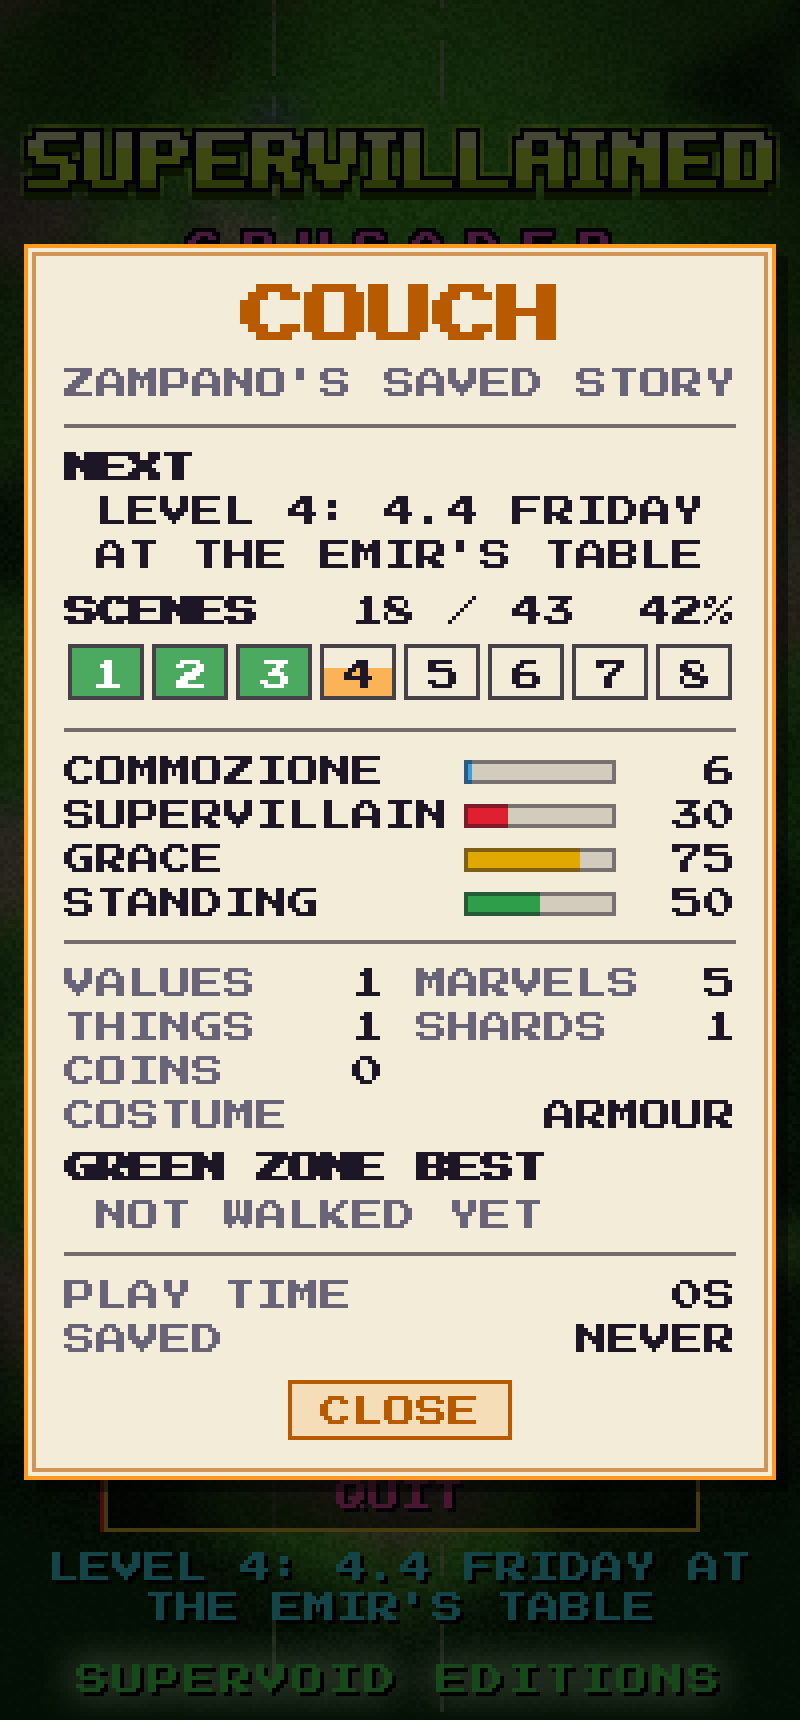
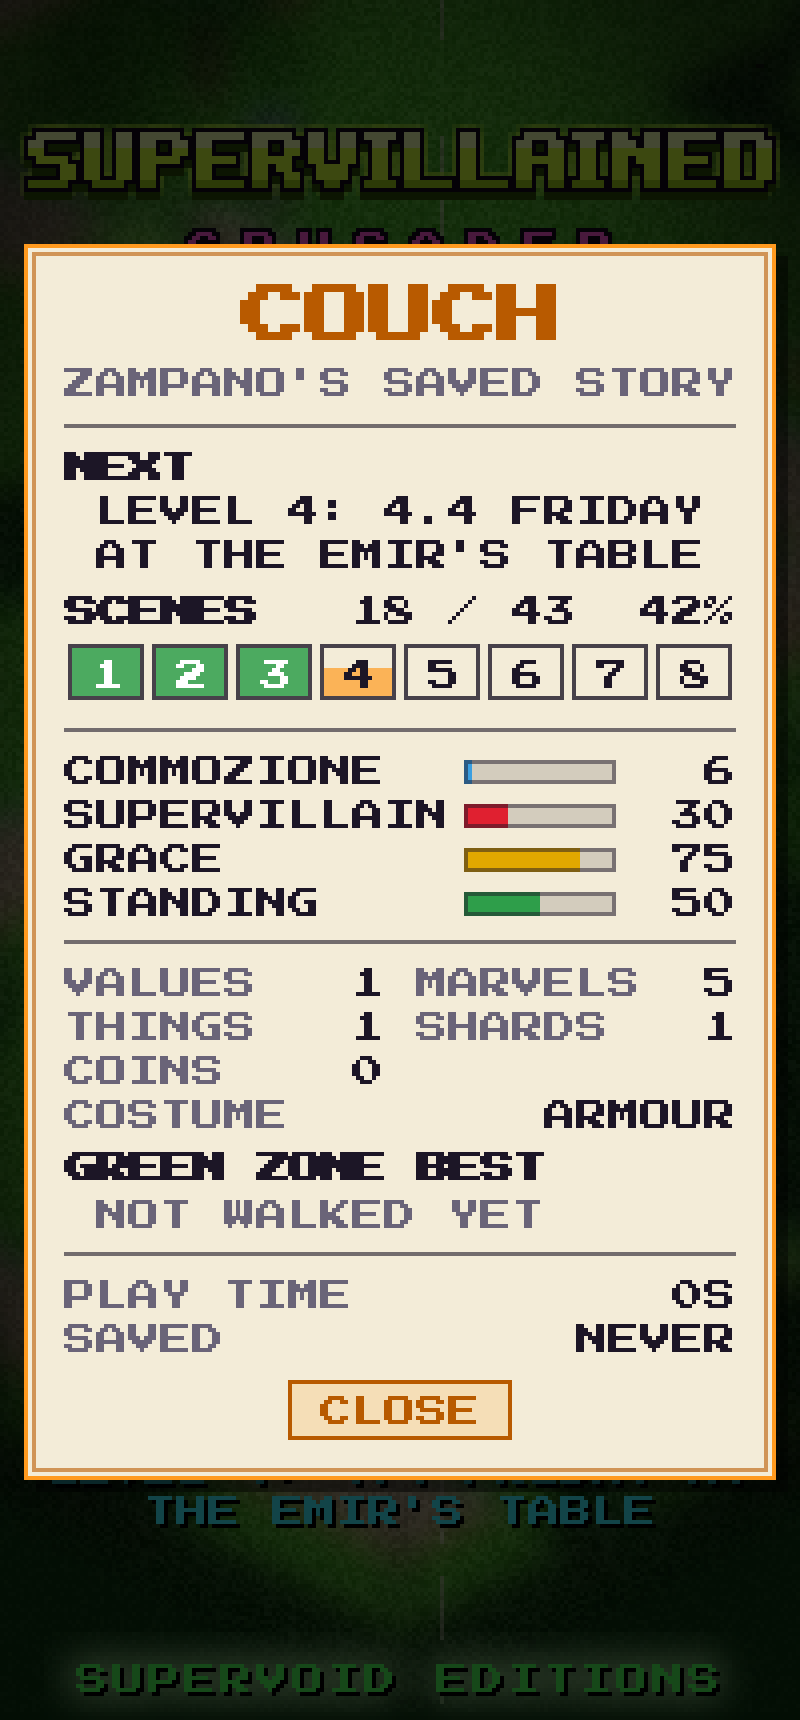
Title page: buttons one button's space higher, the portrait half that
More room above SUPERVOID EDITIONS: TITLE.BOTTOM_GAP grows by a
button's space (18 + 6 px); the portrait, centered between the title
and the buttons, rises by half of it.

Claude-Session: https://claude.ai/code/session_01M83brc3uYNtkMe9oqkk4LQ

Changed region(s): [[0.0625, 0.8628, 0.8125, 0.9552], [0.8438, 0.8628, 0.9375, 0.9244]]

diff --git a/src/config.ts b/src/config.ts
@@ -86,8 +86,12 @@ export const TITLE = {
   DOG_ASPECT: 1.4,
   /** The title (SUPERVILLAINED CRUSADER): its top at this fraction of the screen height. */
   TOP: 0.07,
-  /** Space between the buttons (or where CONTINUE goes) and the publisher line, px. */
-  BOTTOM_GAP: 8,
+  /**
+   * Space between the buttons (or where CONTINUE goes) and the publisher line, px: 8 plus one
+   * button's space (18 + 6). The portrait stays centered between title and buttons, so it rises
+   * half as much.
+   */
+  BOTTOM_GAP: 32,
   /** Glitch on the title's lettering: a burst every [min, max] s, lasting [min, max] s. */
   TEXT_GLITCH_EVERY: [1.8, 4.5],
   TEXT_GLITCH_TIME: [0.06, 0.2],

diff --git a/DECISIONS.md b/DECISIONS.md
@@ -502,8 +502,8 @@ exactly.
 ## Title page layout, the title's glitch, the publisher's glow
 
 - **Layout**: SUPERVILLAINED and CRUSADER sit near the top (their top at 7% of the screen height,
-  `TITLE.TOP`), the buttons (and where CONTINUE goes) just above SUPERVOID EDITIONS
-  (`TITLE.BOTTOM_GAP`), and the animated portrait in the middle of the space between them
+  `TITLE.TOP`), the buttons (and where CONTINUE goes) one button's space above SUPERVOID
+  EDITIONS (`TITLE.BOTTOM_GAP`), and the animated portrait in the middle of the space between them
   (smaller if that space is short).
 - **The title glitches** (`fx/textGlitchFilter.ts`, on the title and CRUSADER together): short
   bursts every 1.8 to 4.5 s in which horizontal slices of the letters jump sideways, the colors
